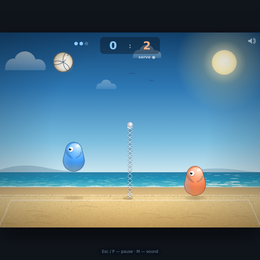
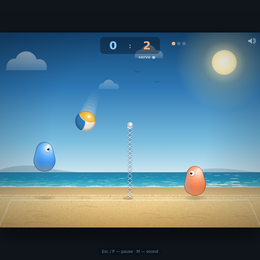
Blobby Volley: a real beach ball, cleaner heads, and hits that sound like hits
The hit sound was an oscillator swept downwards through a square wave, which
is the recipe for a ray gun. A ball meeting a hand is a short burst of
filtered noise with a low body under it, so that is what it is now — two of
them, slightly apart, so you can still hear whose touch it was. The net,
the point and the fault follow the same idea instead of beeping.

On the blobs, the crease under the head was two dark strokes and they read as
eyebrows; the gloss was a hard-edged ellipse. Both are gone: the crown light
is a radial that falls off to nothing, so the top of the head is just volume.

The ball was a beige marble with three seams meeting in the middle. It is a
beach ball now: cream, ocean blue and sun yellow panels curling round it under
the same fixed highlight, so it reads as a sphere while it spins.

Claude-Session: https://claude.ai/code/session_01KZKzs1dwELk6fTegnpWmdy

diff --git a/games/blobby_volley.html b/games/blobby_volley.html
@@ -520,25 +520,64 @@
         return actx;
     }
 
-    function blip(freq, dur, type, gain) {
+    // A ball hitting a hand is a burst of noise with a short low body under it —
+    // a pitch-swept oscillator on its own is a ray gun, which is what this was.
+    let noiseBuf = null;
+
+    function noise(a) {
+        if (!noiseBuf) {
+            noiseBuf = a.createBuffer(1, Math.floor(a.sampleRate * 0.4), a.sampleRate);
+            const d = noiseBuf.getChannelData(0);
+            for (let i = 0; i < d.length; i++) d[i] = Math.random() * 2 - 1;
+        }
+        return noiseBuf;
+    }
+
+    // `to` is where the pitch lands; leave it out and the note holds.
+    function tone(freq, dur, type, gain, to) {
         if (muted) return;
         const a = audio();
         if (!a) return;
         const o = a.createOscillator(), g = a.createGain();
         o.type = type || 'sine';
         o.frequency.setValueAtTime(freq, a.currentTime);
-        o.frequency.exponentialRampToValueAtTime(Math.max(40, freq * 0.6), a.currentTime + dur);
-        g.gain.setValueAtTime(gain || 0.12, a.currentTime);
+        if (to) o.frequency.exponentialRampToValueAtTime(Math.max(30, to), a.currentTime + dur);
+        g.gain.setValueAtTime(0.0001, a.currentTime);
+        g.gain.exponentialRampToValueAtTime(gain || 0.12, a.currentTime + 0.008);
         g.gain.exponentialRampToValueAtTime(0.0001, a.currentTime + dur);
         o.connect(g).connect(a.destination);
         o.start();
         o.stop(a.currentTime + dur + 0.02);
     }
 
-    const sndHit = i => blip(320 + i * 260, 0.09, 'square', 0.09);
-    const sndNet = () => blip(180, 0.12, 'triangle', 0.09);
-    const sndPoint = () => { blip(520, 0.16, 'sine', 0.12); setTimeout(() => blip(700, 0.2, 'sine', 0.1), 90); };
-    const sndFault = () => blip(150, 0.3, 'sawtooth', 0.08);
+    // a filtered noise burst: the slap of the contact itself
+    function thock(freq, dur, gain, q) {
+        if (muted) return;
+        const a = audio();
+        if (!a) return;
+        const src = a.createBufferSource();
+        src.buffer = noise(a);
+        const bp = a.createBiquadFilter();
+        bp.type = 'bandpass';
+        bp.Q.value = q || 1;
+        bp.frequency.setValueAtTime(freq, a.currentTime);
+        bp.frequency.exponentialRampToValueAtTime(freq * 0.45, a.currentTime + dur);
+        const g = a.createGain();
+        g.gain.setValueAtTime(gain, a.currentTime);
+        g.gain.exponentialRampToValueAtTime(0.0001, a.currentTime + dur);
+        src.connect(bp).connect(g).connect(a.destination);
+        src.start();
+        src.stop(a.currentTime + dur + 0.02);
+    }
+
+    // the two blobs sound slightly apart, so you can hear whose touch it was
+    const sndHit = i => {
+        thock(1350 + i * 420, 0.07, 0.2, 1.1);
+        tone(210 + i * 45, 0.085, 'sine', 0.1, (210 + i * 45) * 0.7);
+    };
+    const sndNet = () => { thock(620, 0.15, 0.13, 0.7); tone(120, 0.13, 'triangle', 0.06, 88); };
+    const sndPoint = () => { tone(660, 0.15, 'sine', 0.1); setTimeout(() => tone(990, 0.24, 'sine', 0.09), 105); };
+    const sndFault = () => { thock(300, 0.2, 0.1, 0.6); tone(155, 0.24, 'sine', 0.07, 104); };
 
     // ---------------------------------------------------------------- helpers
     const dist = (ax, ay, bx, by) => Math.hypot(ax - bx, ay - by);
@@ -1346,14 +1385,6 @@
         ctx.fillStyle = rim;
         ctx.fillRect(-BLOBBY_LOWER_RADIUS, -BLOBBY_UPPER_SPHERE - BLOBBY_UPPER_RADIUS,
             BLOBBY_LOWER_RADIUS, BLOBBY_HEIGHT);
-        // the shadow the head drops on the shoulders, so the two spheres still read
-        ctx.strokeStyle = 'rgba(16,36,68,.22)';
-        ctx.lineWidth = 4;
-        ctx.beginPath();
-        ctx.arc(0, -BLOBBY_UPPER_SPHERE, BLOBBY_UPPER_RADIUS - 1, Math.PI * 0.08, Math.PI * 0.4);
-        ctx.moveTo(-BLOBBY_UPPER_RADIUS + 1, -BLOBBY_UPPER_SPHERE);
-        ctx.arc(0, -BLOBBY_UPPER_SPHERE, BLOBBY_UPPER_RADIUS - 1, Math.PI * 0.6, Math.PI * 0.92);
-        ctx.stroke();
         ctx.restore();
 
         // the outline keeps the blob readable against the sand
@@ -1364,17 +1395,23 @@
         ctx.stroke();
         ctx.globalAlpha = 1;
 
-        // gloss: a soft cap on the head and a small hard glint
-        const gloss = ctx.createLinearGradient(0, -BLOBBY_UPPER_SPHERE - BLOBBY_UPPER_RADIUS, 0, -BLOBBY_UPPER_SPHERE + 6);
-        gloss.addColorStop(0, 'rgba(255,255,255,.55)');
+        // gloss: light pooled on the crown, falling off to nothing so the head
+        // never shows the edge of the highlight
+        const gx = 6, gy = -BLOBBY_UPPER_SPHERE - 7, gr = BLOBBY_UPPER_RADIUS * 1.05;
+        const gloss = ctx.createRadialGradient(gx, gy, 1, gx, gy, gr);
+        gloss.addColorStop(0, 'rgba(255,255,255,.5)');
+        gloss.addColorStop(0.45, 'rgba(255,255,255,.16)');
         gloss.addColorStop(1, 'rgba(255,255,255,0)');
         ctx.fillStyle = gloss;
         ctx.beginPath();
-        ctx.ellipse(3, -BLOBBY_UPPER_SPHERE - 6, BLOBBY_UPPER_RADIUS * 0.72, BLOBBY_UPPER_RADIUS * 0.6, 0, 0, Math.PI * 2);
+        ctx.arc(gx, gy, gr, 0, Math.PI * 2);
         ctx.fill();
-        ctx.fillStyle = 'rgba(255,255,255,.75)';
+        const glint = ctx.createRadialGradient(11, -BLOBBY_UPPER_SPHERE - 13, 0.5, 11, -BLOBBY_UPPER_SPHERE - 13, 6);
+        glint.addColorStop(0, 'rgba(255,255,255,.8)');
+        glint.addColorStop(1, 'rgba(255,255,255,0)');
+        ctx.fillStyle = glint;
         ctx.beginPath();
-        ctx.ellipse(11, -BLOBBY_UPPER_SPHERE - 13, 5.2, 3.4, -0.5, 0, Math.PI * 2);
+        ctx.arc(11, -BLOBBY_UPPER_SPHERE - 13, 6, 0, Math.PI * 2);
         ctx.fill();
 
         // eye
@@ -1466,35 +1503,38 @@
         ctx.fill();
     }
 
+    // A beach ball, not an indoor one: three panels curling round the ball, and
+    // the sphere shading laid over the top so it stays lit while the panels spin.
+    const BALL_PANEL = ['#f4efe0', '#2f7fc4', '#f2c14a'];
+
     function drawBall() {
         const ball = game.ball;
         ctx.save();
         ctx.translate(ball.x, ball.y);
-        ctx.save();
-        ctx.rotate(ball.rot);
+
         const bg = ctx.createRadialGradient(BALL_RADIUS * 0.35, -BALL_RADIUS * 0.4, 3, 0, 0, BALL_RADIUS * 1.1);
-        bg.addColorStop(0, '#fffefa');
-        bg.addColorStop(0.55, '#f6eeda');
-        bg.addColorStop(1, '#cbbf9d');
+        bg.addColorStop(0, '#fffefb');
+        bg.addColorStop(0.6, '#f6f1e4');
+        bg.addColorStop(1, '#dcd3bc');
         ctx.fillStyle = bg;
         ctx.beginPath();
         ctx.arc(0, 0, BALL_RADIUS, 0, Math.PI * 2);
         ctx.fill();
 
-        // volleyball panels: one seam around the middle, two more across it
-        ctx.strokeStyle = 'rgba(38,64,102,.62)';
-        ctx.lineWidth = 2.6;
-        ctx.lineCap = 'round';
+        ctx.save();
         ctx.beginPath();
-        ctx.arc(0, 0, BALL_RADIUS - 1.3, 0, Math.PI * 2);
-        ctx.stroke();
-        ctx.strokeStyle = 'rgba(38,64,102,.5)';
+        ctx.arc(0, 0, BALL_RADIUS, 0, Math.PI * 2);
+        ctx.clip();
+        ctx.rotate(ball.rot);
+        ctx.lineWidth = BALL_RADIUS * 0.045;
+        ctx.strokeStyle = 'rgba(255,255,255,.8)';
         for (let i = 0; i < 3; i++) {
             ctx.save();
             ctx.rotate(i * Math.PI * 2 / 3);
             ctx.beginPath();
-            ctx.ellipse(BALL_RADIUS * 0.62, 0, BALL_RADIUS * 0.62, BALL_RADIUS * 0.95,
-                0, Math.PI * 0.62, Math.PI * 1.38);
+            ctx.ellipse(BALL_RADIUS * 0.62, 0, BALL_RADIUS * 0.62, BALL_RADIUS * 0.95, 0, 0, Math.PI * 2);
+            ctx.fillStyle = BALL_PANEL[i];
+            ctx.fill();
             ctx.stroke();
             ctx.restore();
         }
@@ -1503,16 +1543,22 @@
         // shading and highlight stay put while the ball spins under them
         const shade = ctx.createRadialGradient(BALL_RADIUS * 0.3, -BALL_RADIUS * 0.35, BALL_RADIUS * 0.3,
             0, 0, BALL_RADIUS);
-        shade.addColorStop(0, 'rgba(60,45,20,0)');
-        shade.addColorStop(0.72, 'rgba(60,45,20,.06)');
-        shade.addColorStop(1, 'rgba(50,38,18,.35)');
+        shade.addColorStop(0, 'rgba(50,38,18,0)');
+        shade.addColorStop(0.7, 'rgba(50,38,18,.08)');
+        shade.addColorStop(1, 'rgba(34,26,12,.4)');
         ctx.fillStyle = shade;
         ctx.beginPath();
         ctx.arc(0, 0, BALL_RADIUS, 0, Math.PI * 2);
         ctx.fill();
-        ctx.fillStyle = 'rgba(255,255,255,.7)';
+
+        const hx = BALL_RADIUS * 0.34, hy = -BALL_RADIUS * 0.44, hr = BALL_RADIUS * 0.46;
+        const spec = ctx.createRadialGradient(hx, hy, 1, hx, hy, hr);
+        spec.addColorStop(0, 'rgba(255,255,255,.8)');
+        spec.addColorStop(0.45, 'rgba(255,255,255,.2)');
+        spec.addColorStop(1, 'rgba(255,255,255,0)');
+        ctx.fillStyle = spec;
         ctx.beginPath();
-        ctx.ellipse(BALL_RADIUS * 0.34, -BALL_RADIUS * 0.42, 7.5, 5, -0.6, 0, Math.PI * 2);
+        ctx.arc(hx, hy, hr, 0, Math.PI * 2);
         ctx.fill();
         ctx.restore();
     }
